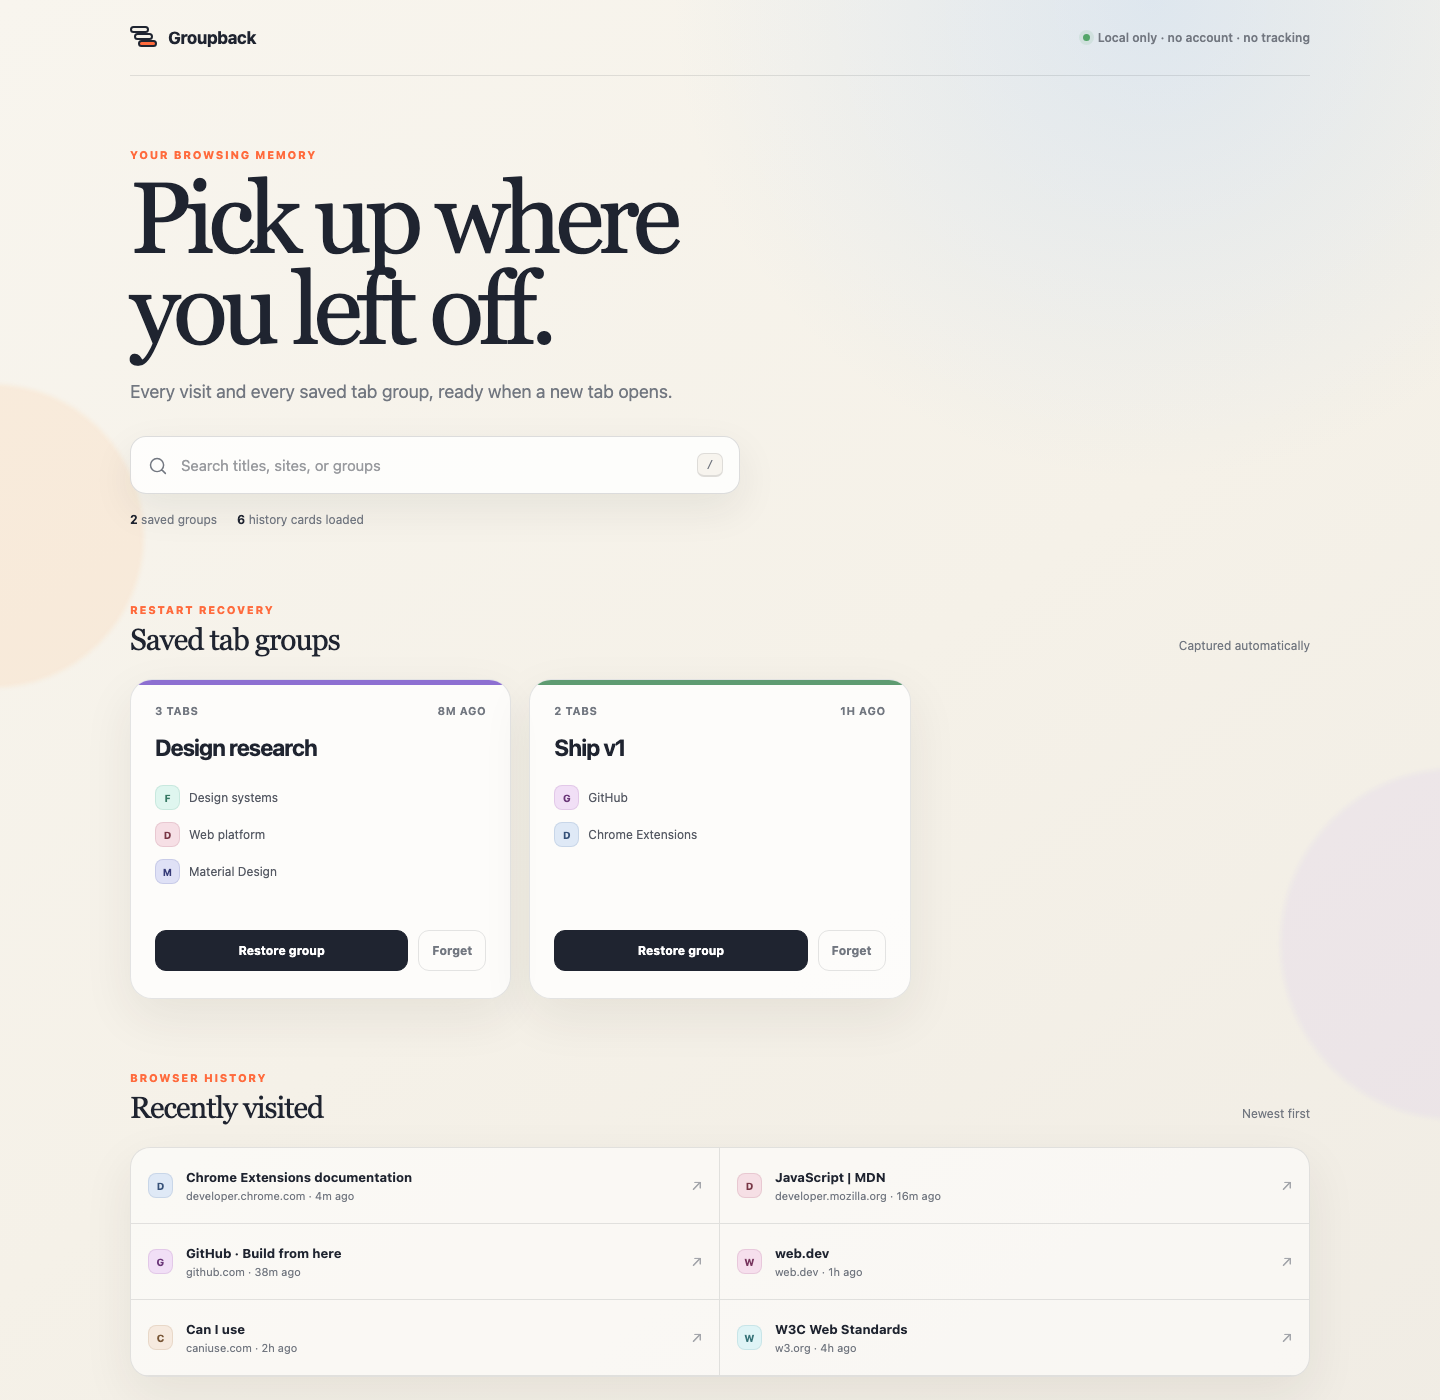
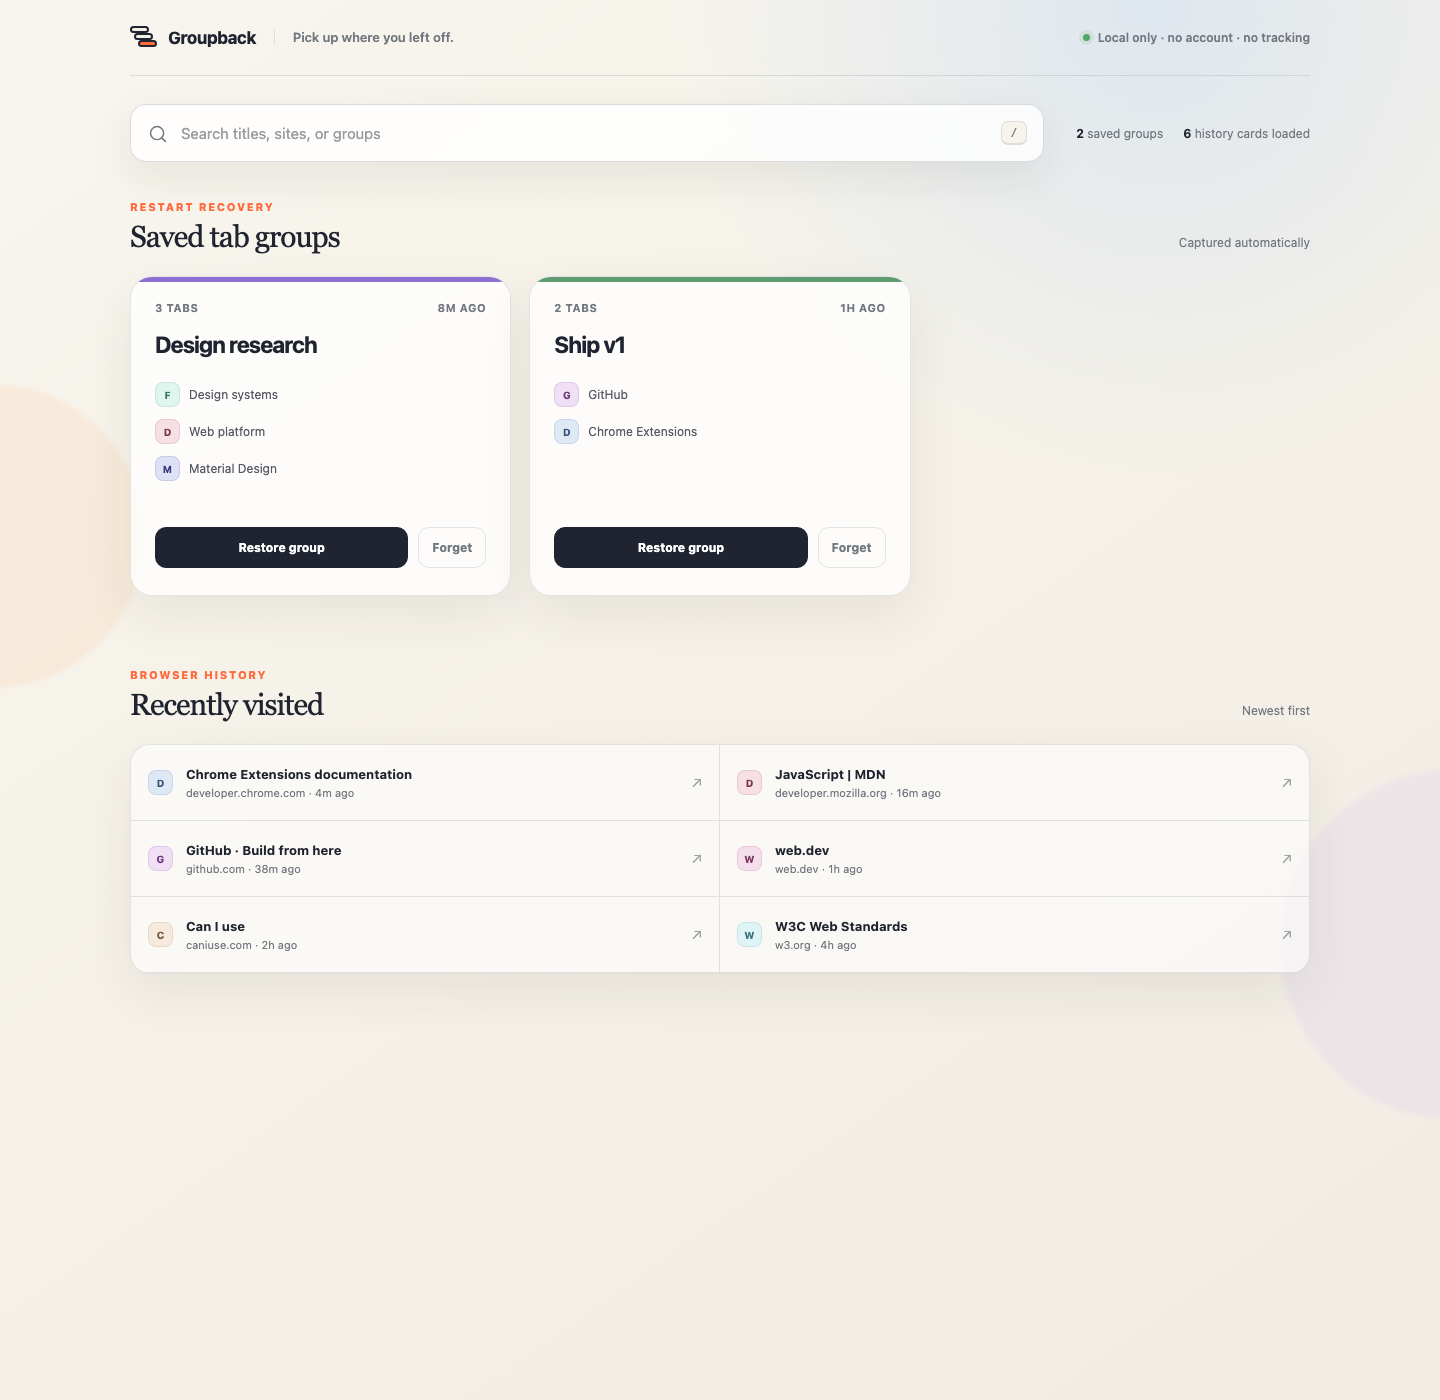
feat: compact the new tab header

diff --git a/newtab.css b/newtab.css
@@ -12,13 +12,13 @@
 
 * { box-sizing: border-box; }
 
-html { scroll-behavior: smooth; }
+html { overflow-x: clip; scroll-behavior: smooth; }
 
 body {
   min-width: 320px;
   min-height: 100vh;
   margin: 0;
-  overflow-x: hidden;
+  overflow-x: clip;
   color: var(--ink);
   background:
     radial-gradient(circle at 80% 0%, rgba(137, 189, 255, 0.22), transparent 30rem),
@@ -68,6 +68,12 @@ button { color: inherit; }
   border-bottom: 1px solid var(--line);
 }
 
+.brand-lockup {
+  display: flex;
+  align-items: center;
+  min-width: 0;
+}
+
 .brand {
   display: inline-flex;
   gap: 11px;
@@ -98,6 +104,19 @@ button { color: inherit; }
 .brand-mark span:nth-child(2) { top: 8px; left: 4px; }
 .brand-mark span:nth-child(3) { top: 15px; left: 8px; background: var(--orange); }
 
+.header-tagline {
+  margin: 0 0 0 18px;
+  padding-left: 18px;
+  border-left: 1px solid var(--line);
+  color: var(--muted);
+  font-family: inherit;
+  font-size: 13px;
+  font-weight: 600;
+  letter-spacing: -0.01em;
+  line-height: 1.2;
+  white-space: nowrap;
+}
+
 .privacy-note {
   display: flex;
   gap: 8px;
@@ -116,12 +135,15 @@ button { color: inherit; }
   box-shadow: 0 0 0 4px rgba(83, 165, 104, 0.12);
 }
 
-.hero {
-  max-width: 780px;
-  padding: 72px 0 64px;
+.controls {
+  display: flex;
+  gap: 32px;
+  align-items: center;
+  justify-content: space-between;
+  padding: 28px 0 38px;
 }
 
-.eyebrow, .section-kicker {
+.section-kicker {
   margin: 0 0 12px;
   color: var(--orange);
   font-size: 11px;
@@ -130,26 +152,9 @@ button { color: inherit; }
   text-transform: uppercase;
 }
 
-h1 {
-  max-width: 700px;
-  margin: 0;
-  font-family: Georgia, "Times New Roman", serif;
-  font-size: clamp(3.25rem, 7vw, 6.4rem);
-  font-weight: 500;
-  letter-spacing: -0.062em;
-  line-height: 0.9;
-}
-
-.lede {
-  max-width: 590px;
-  margin: 24px 0 30px;
-  color: var(--muted);
-  font-size: 18px;
-  line-height: 1.55;
-}
-
 .search {
   display: flex;
+  flex: 1 1 610px;
   align-items: center;
   width: min(100%, 610px);
   height: 58px;
@@ -202,15 +207,16 @@ kbd {
 
 .stats {
   display: flex;
+  flex: 0 0 auto;
   gap: 20px;
-  margin-top: 18px;
+  margin-top: 0;
   color: var(--muted);
   font-size: 12px;
 }
 
 .stats strong { color: var(--ink); }
 
-.section { margin-top: 12px; }
+.section { margin-top: 0; }
 
 .history-section { margin-top: 72px; }
 
@@ -464,6 +470,13 @@ button:disabled { cursor: wait; opacity: 0.65; }
 .toast.visible { transform: translateY(0); opacity: 1; }
 
 @media (max-width: 850px) {
+  .controls {
+    flex-direction: column;
+    gap: 14px;
+    align-items: flex-start;
+  }
+
+  .search { flex: none; }
   .group-grid { grid-template-columns: 1fr 1fr; }
 }
 
@@ -471,12 +484,15 @@ button:disabled { cursor: wait; opacity: 0.65; }
   .shell { width: min(100% - 28px, 1180px); }
   .topbar { min-height: 64px; }
   .privacy-note { display: none; }
-  .hero { padding: 54px 0 48px; }
-  h1 { font-size: clamp(3.1rem, 16vw, 5rem); }
+  .controls { padding: 20px 0 32px; }
   .group-grid, .history-grid { grid-template-columns: 1fr; }
   .history-card { border-right: 0; }
   .section-heading { align-items: start; }
   .section-hint { display: none; }
+}
+
+@media (max-width: 420px) {
+  .header-tagline { display: none; }
 }
 
 @media (prefers-reduced-motion: reduce) {

diff --git a/newtab.html b/newtab.html
@@ -11,18 +11,18 @@
     <div class="ambient ambient-one"></div>
     <div class="ambient ambient-two"></div>
     <main class="shell">
-      <header class="topbar">
-        <a class="brand" href="#top" aria-label="Groupback home">
-          <span class="brand-mark" aria-hidden="true"><span></span><span></span><span></span></span>
-          <span>Groupback</span>
-        </a>
+      <header class="topbar" id="top">
+        <div class="brand-lockup">
+          <a class="brand" href="#top" aria-label="Groupback home">
+            <span class="brand-mark" aria-hidden="true"><span></span><span></span><span></span></span>
+            <span>Groupback</span>
+          </a>
+          <h1 class="header-tagline">Pick up where you left off.</h1>
+        </div>
         <p class="privacy-note"><span></span> Local only · no account · no tracking</p>
       </header>
 
-      <section class="hero" id="top">
-        <p class="eyebrow">Your browsing memory</p>
-        <h1>Pick up where you left off.</h1>
-        <p class="lede">Every visit and every saved tab group, ready when a new tab opens.</p>
+      <section class="controls" aria-label="Search browsing memory">
         <label class="search">
           <svg viewBox="0 0 24 24" aria-hidden="true"><path d="m21 21-4.3-4.3m2.3-5.2a7.5 7.5 0 1 1-15 0 7.5 7.5 0 0 1 15 0Z" /></svg>
           <input id="search" type="search" placeholder="Search titles, sites, or groups" autocomplete="off" />

diff --git a/CHANGELOG.md b/CHANGELOG.md
@@ -1,5 +1,10 @@
 # Changelog
 
+## 0.1.3 — 2026-09-03
+
+- Move the page tagline into the header and remove the oversized hero section.
+- Bring search and saved tab groups higher into the initial viewport.
+
 ## 0.1.2 — 2026-09-03
 
 - Hide single-tab snapshots from the recovery section.
